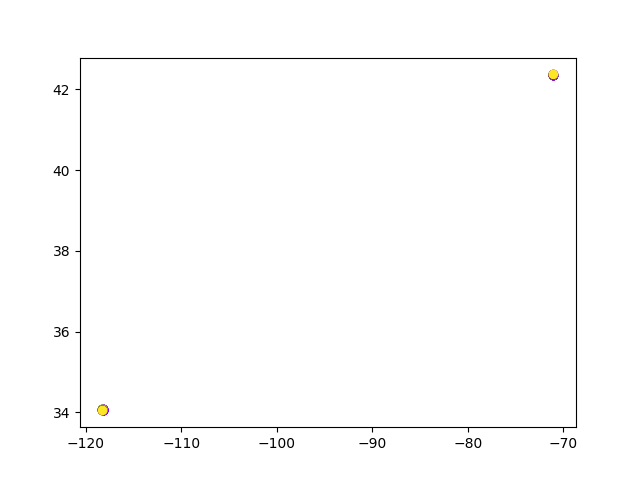
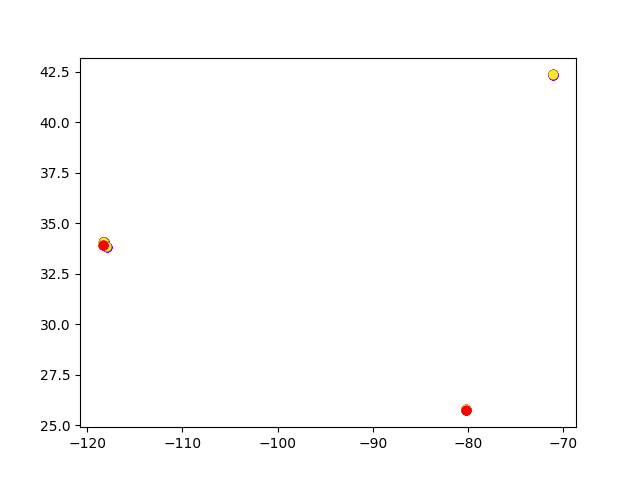
the red dotcould reflect what is the newest trip

diff --git a/hello-world/src/components/Schedule/ScheduleStepper.vue b/hello-world/src/components/Schedule/ScheduleStepper.vue
@@ -159,10 +159,16 @@ export default {
 
       const that = this;
       this.$root.$emit("get-selected-place-cards", function (selectedPlaces) {
-        // let this = that;
-        // console.log(selectedPlaces);
+        for (let i = 0; i < selectedPlaces.length; i++) {
+          let place = selectedPlaces[i];
+          if (typeof place.geometry.location.lat === "function") {
+            place.geometry.location.lat = place.geometry.location.lat();
+          }
+          if (typeof place.geometry.location.lng === "function") {
+            place.geometry.location.lng = place.geometry.location.lng();
+          }
+        }
         that.userOptions.places = selectedPlaces;
-        // console.log(that.userOptions);
         const ac_token = that.$cookie.get("access_token");
         if (ac_token !== null) {
           const headers = {
@@ -188,23 +194,6 @@ export default {
           console.log("User does not have access token");
         }
       });
-
-      // // const places = this.$parent.$parent.$children[2].$refs.placeCards.places;
-
-      // console.log(places[0].geometry.location);
-
-      // for (let i = 0; i < places.length; i++) {
-      //   let place = places[i];
-      //   // console.log(place.geometry.location);
-
-      //   if (typeof place.geometry.location.lat === "function") {
-      //     place.geometry.location.lat = place.geometry.location.lat();
-      //   }
-      //   if (typeof place.geometry.location.lng === "function") {
-      //     place.geometry.location.lng = place.geometry.location.lng();
-      //   }
-      // }
-      // console.log(places);
     },
   },
 };

diff --git a/hello-world/src/components/Itinerary/ItineraryTabs.vue b/hello-world/src/components/Itinerary/ItineraryTabs.vue
@@ -17,12 +17,11 @@
       center-active
       show-arrows
       @change="onTabChanged"
-      hide-slider
       optional
       class="ItineraryTabs"
     >
-      <v-tab v-for="(itinerary, index) in itinerarys" :key="itinerary.id">
-        <v-badge v-if="index === 0" color="pink" dot>
+      <v-tab v-for="itinerary in itinerarys" :key="itinerary.id">
+        <v-badge v-if="itinerary === latestItinerary" color="pink" dot>
           <span>{{ itinerary.title }} </span>
         </v-badge>
         <span v-else>
@@ -66,6 +65,11 @@ export default {
       if (this.tab === undefined || this.tab === -1) return null;
 
       return this.itinerarys[this.tab].id;
+    },
+    latestItinerary() {
+      return this.itinerarys.reduce((r, a) => {
+        return r.last_modified > a.last_modified ? r : a;
+      });
     },
   },
   watch: {

diff --git a/hello-world/src/router/index.js b/hello-world/src/router/index.js
@@ -27,6 +27,7 @@ ScheduleRouter.beforeRouteEnter = function (to, from, next) {
     })
 }
 
+
 ItineraryTabItemRouter.beforeRouteUpdate = function (to, from, next) {
     this.$root.$emit("remove-all-markers-on-itinerary-map");
     next();
@@ -39,6 +40,8 @@ ItineraryRouter.beforeRouteEnter = function (to, from, next) {
         next();
     } else { // user has access token, fetch the menu for him
         next(vm => {
+            vm.$root.$emit("remove-all-markers-on-itinerary-map");
+
             const headers = {
                 'Content-Type': 'application/json',
                 Authorization: 'Bearer ' + access_token,
